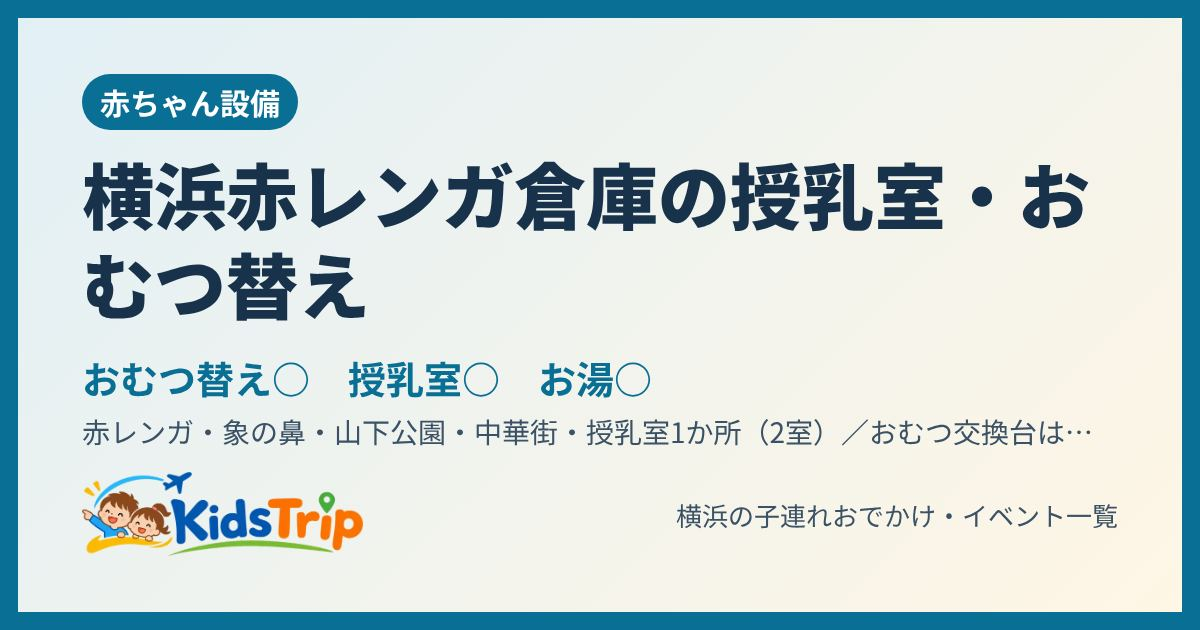
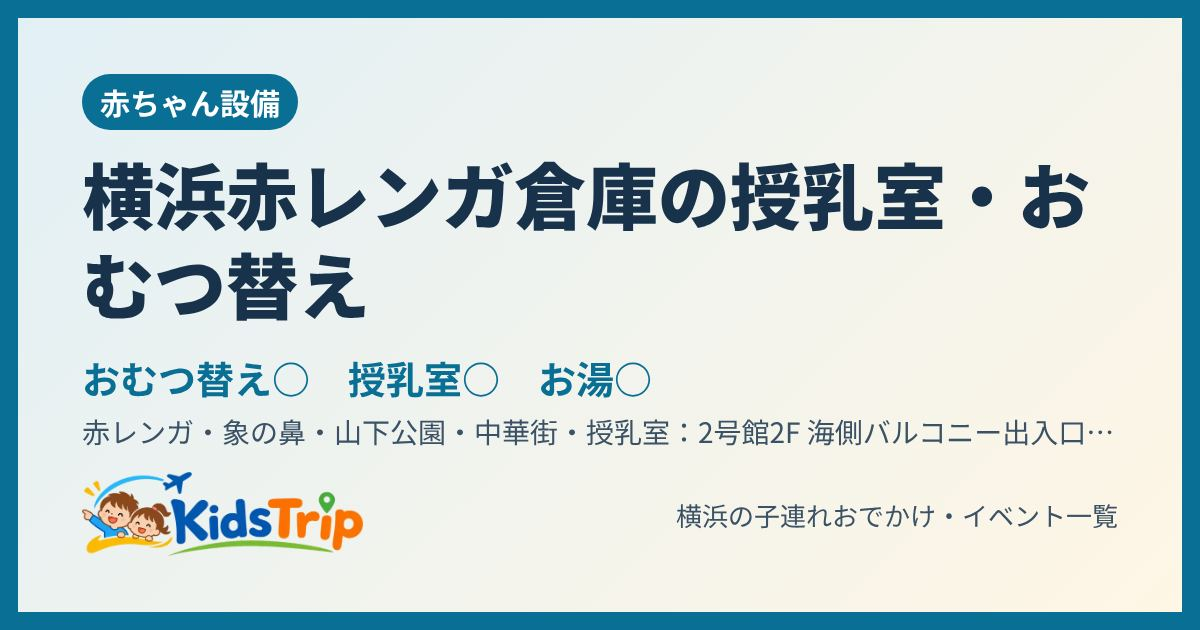
横浜赤レンガ倉庫：授乳室の場所・ベビーシート・ベビーカー貸出を公式フロアガイドで確認
Claude-Session: https://claude.ai/code/session_014AtJ2g3ghW1boxsW7syVwL

Changed region(s): [[0.555, 0.6635, 0.925, 0.7238]]

diff --git a/spot/eizyq4/index.html b/spot/eizyq4/index.html
@@ -3,13 +3,13 @@
 <head>
 <meta charset="utf-8">
 <meta name="viewport" content="width=device-width, initial-scale=1">
-<title>横浜赤レンガ倉庫の授乳室・おむつ替え・お湯｜KidsTrip</title>
-<meta name="description" content="横浜赤レンガ倉庫（赤レンガ・象の鼻・山下公園・中華街）の授乳室・おむつ替えの場所：授乳室1か所（2室）／おむつ交換台は女性トイレと2号館バリアフリートイレ前。おむつ替え・授乳室・調乳のお湯あり。">
+<title>横浜赤レンガ倉庫の授乳室は何階？おむつ替え・お湯｜KidsTrip</title>
+<meta name="description" content="横浜赤レンガ倉庫（赤レンガ・象の鼻・山下公園・中華街）の授乳室・おむつ替えの場所：授乳室：2号館2F 海側バルコニー出入口前（個室・おむつ交換台・給湯設備）／おむつ替えのベビーシート：女性トイレ内（2号館2F 海側階段前の女性トイレを除く）と2号館バリアフリートイレ前。おむつ替え・授乳室・調乳のお湯">
 <link rel="canonical" href="https://kidstrip.jp/spot/eizyq4/">
 <meta property="og:type" content="article">
 <meta property="og:site_name" content="KidsTrip">
-<meta property="og:title" content="横浜赤レンガ倉庫の授乳室・おむつ替え・お湯｜KidsTrip">
-<meta property="og:description" content="横浜赤レンガ倉庫（赤レンガ・象の鼻・山下公園・中華街）の授乳室・おむつ替えの場所：授乳室1か所（2室）／おむつ交換台は女性トイレと2号館バリアフリートイレ前。おむつ替え・授乳室・調乳のお湯あり。">
+<meta property="og:title" content="横浜赤レンガ倉庫の授乳室は何階？おむつ替え・お湯｜KidsTrip">
+<meta property="og:description" content="横浜赤レンガ倉庫（赤レンガ・象の鼻・山下公園・中華街）の授乳室・おむつ替えの場所：授乳室：2号館2F 海側バルコニー出入口前（個室・おむつ交換台・給湯設備）／おむつ替えのベビーシート：女性トイレ内（2号館2F 海側階段前の女性トイレを除く）と2号館バリアフリートイレ前。おむつ替え・授乳室・調乳のお湯">
 <meta property="og:url" content="https://kidstrip.jp/spot/eizyq4/">
 <meta property="og:image" content="https://kidstrip.jp/og/spot-eizyq4.jpg">
 <meta property="og:image:width" content="1200">
@@ -21,7 +21,7 @@
 <link rel="icon" href="../../img/favicon.png">
 <link rel="apple-touch-icon" href="../../img/apple-touch-icon.png">
 <script type="application/ld+json">{"@context": "https://schema.org", "@type": "BreadcrumbList", "itemListElement": [{"@type": "ListItem", "position": 1, "name": "トップ", "item": "https://kidstrip.jp/"}, {"@type": "ListItem", "position": 2, "name": "ごはん・おむつ", "item": "https://kidstrip.jp/#foodall"}, {"@type": "ListItem", "position": 3, "name": "横浜赤レンガ倉庫"}]}</script>
-<script type="application/ld+json">{"@context": "https://schema.org", "@type": "Place", "name": "横浜赤レンガ倉庫", "description": "横浜赤レンガ倉庫（赤レンガ・象の鼻・山下公園・中華街）の授乳室・おむつ替えの場所：授乳室1か所（2室）／おむつ交換台は女性トイレと2号館バリアフリートイレ前。おむつ替え・授乳室・調乳のお湯あり。", "url": "https://kidstrip.jp/spot/eizyq4/", "image": ["https://kidstrip.jp/og/spot-eizyq4.jpg"], "address": {"@type": "PostalAddress", "addressLocality": "横浜市", "addressRegion": "神奈川県", "addressCountry": "JP"}, "amenityFeature": [{"@type": "LocationFeatureSpecification", "name": "おむつ替え", "value": true}, {"@type": "LocationFeatureSpecification", "name": "授乳室", "value": true}, {"@type": "LocationFeatureSpecification", "name": "調乳のお湯", "value": true}], "publicAccess": true, "sameAs": "https://www.welcome.city.yokohama.jp/accessibility/spot/details.php?sid=184", "hasMap": "https://www.google.com/maps/search/?api=1&query=横浜赤レンガ倉庫"}</script>
+<script type="application/ld+json">{"@context": "https://schema.org", "@type": "Place", "name": "横浜赤レンガ倉庫", "description": "横浜赤レンガ倉庫（赤レンガ・象の鼻・山下公園・中華街）の授乳室・おむつ替えの場所：授乳室：2号館2F 海側バルコニー出入口前（個室・おむつ交換台・給湯設備）／おむつ替えのベビーシート：女性トイレ内（2号館2F 海側階段前の女性トイレを除く）と2号館バリアフリートイレ前。おむつ替え・授乳室・調乳のお湯", "url": "https://kidstrip.jp/spot/eizyq4/", "image": ["https://kidstrip.jp/og/spot-eizyq4.jpg"], "address": {"@type": "PostalAddress", "addressLocality": "横浜市", "addressRegion": "神奈川県", "addressCountry": "JP"}, "amenityFeature": [{"@type": "LocationFeatureSpecification", "name": "おむつ替え", "value": true}, {"@type": "LocationFeatureSpecification", "name": "授乳室", "value": true}, {"@type": "LocationFeatureSpecification", "name": "調乳のお湯", "value": true}], "publicAccess": true, "sameAs": "https://www.yokohama-akarenga.jp/floorguide/", "hasMap": "https://www.google.com/maps/search/?api=1&query=横浜赤レンガ倉庫"}</script>
 <style>
 .gkcmp th[scope=row]{white-space:nowrap}.gkcmp td{font-size:.92em}
 .gk{list-style:none;padding:0}.gk li{border:1px solid #e5e5e5;border-radius:10px;padding:10px 12px;margin:8px 0;line-height:1.7}.gk h3{margin:0 0 2px;font-size:1.02em}
@@ -52,11 +52,11 @@ footer{margin:28px 0 8px;font-size:12px;color:var(--muted)}
 <h1>横浜赤レンガ倉庫の授乳室・おむつ替え・お湯</h1>
 <table class="bm"><thead><tr><th>場所</th><th>おむつ替え</th><th>授乳室</th><th>お湯</th><th>レンジ</th></tr></thead><tbody><tr><th>横浜赤レンガ倉庫</th><td class="y">○</td><td class="y">○</td><td class="y">○</td><td class="u">？</td></tr></tbody></table>
 <p class="legend">○ あり　× なし　？ 調べた範囲で確認できず</p>
-<table class="info"><tr><th>場所</th><td>授乳室1か所（2室）／おむつ交換台は女性トイレと2号館バリアフリートイレ前</td></tr><tr><th>エリア</th><td>赤レンガ・象の鼻・山下公園・中華街</td></tr></table>
-<ul class="chips"><li>ベビーカー貸出</li><li>トイレの個室にベビーキープ（男女とも）</li></ul>
-<p class="sum">調乳用のお湯（温水器またはポット）あり。</p>
-<p class="small">出典：横浜市観光情報サイト バリアフリー情報（2024年10月更新）</p>
-<div class="btns"><a class="btn main" data-act="official" href="https://www.welcome.city.yokohama.jp/accessibility/spot/details.php?sid=184" target="_blank" rel="noopener">公式ページで確認</a>
+<table class="info"><tr><th>場所</th><td>授乳室：2号館2F 海側バルコニー出入口前（個室・おむつ交換台・給湯設備）／おむつ替えのベビーシート：女性トイレ内（2号館2F 海側階段前の女性トイレを除く）と2号館バリアフリートイレ前</td></tr><tr><th>エリア</th><td>赤レンガ・象の鼻・山下公園・中華街</td></tr></table>
+<ul class="chips"><li>ベビーカー貸出（2号館1F インフォメーション）</li><li>トイレの個室にベビーキープ（男女とも）</li></ul>
+<p class="sum">授乳室は2号館2Fの海側バルコニー出入口前の1か所で、個室・おむつ交換台・給湯設備がある。1号館には授乳室の記載なし。ベビーカーは2号館1Fのインフォメーションで借りられる（数に限りあり・営業時間内の館内だけ）。電子レンジは公式ページに記載なし。</p>
+<p class="small">出典：横浜赤レンガ倉庫 公式（フロアガイド・2026年11月22日確認）。バリアフリートイレ前の台・ベビーキープは横浜市観光情報サイト バリアフリー情報（2024年10月更新）</p>
+<div class="btns"><a class="btn main" data-act="official" href="https://www.yokohama-akarenga.jp/floorguide/" target="_blank" rel="noopener">公式ページで確認</a>
 <a class="btn" href="https://www.google.com/maps/search/?api=1&amp;query=横浜赤レンガ倉庫" target="_blank" rel="noopener">地図で見る</a>
 <button type="button" class="btn" data-share="1">🔗 リンクを送る・コピー</button></div>
 </article>

diff --git a/js/data.js b/js/data.js
@@ -559,8 +559,8 @@ const BABY = {
       note:"温水湯沸かし器（またはポット）あり。ベビーカーの貸出はない（公式のよくある質問）ので持参で。授乳室の階・電子レンジ・パパが使えるかは公式ページに記載なし（問い合わせ 045-227-5310・10:00〜21:00）。ペット連れでの授乳室への入室はできない。赤レンガ倉庫のとなり。", url:"https://www.welcome.city.yokohama.jp/accessibility/spot/details.php?sid=801", src:"横浜市観光情報サイト バリアフリー情報（2025年1月更新）・MARINE & WALK YOKOHAMA 公式（よくある質問・ペットのルール・2026年11月21日確認）" },
     { n:"横浜ワールドポーターズ", where:"2F観覧車側のミルクルーム／3F・4F観覧車側のおむつルーム／1F駐車場側のキッズトイレ", d:true, f:true, w:true, mw:true, mwText:"電子レンジ（2Fミルクルーム）（横浜ワールドポーターズ 公式（館内設備・2026年11月））", ex:["電子レンジ（2Fミルクルーム）","離乳食・飲料・おむつの自販機（2F）","個室の授乳スペース（2Fに3室・3Fに1室、搾乳も可）","キッズトイレ（1F駐車場側）","ベビーカー貸出"],
       note:"2Fミルクルームに調乳用温水器・電子レンジ・手洗いシンク・ミルクや離乳食を食べられるベンチ・おむつ交換台2台。3F・4Fのおむつルームにも調乳用温水器と、立ったまま替えられるシート。おむつ交換シートは各階の女性トイレ・優先トイレと1F観覧車側の男性トイレにも。1Fのキッズトイレには子ども用便座・ベビーシート。各階の女性トイレに男の子用の小便器、優先トイレに補助便座（シネマ内を除く）。おむつは2Fの自販機・2Fクレモ・1Fファミリーマートで買える。", url:"https://www.yim.co.jp/features/facility", src:"横浜ワールドポーターズ 公式（館内設備・2026年11月）" },
-    { n:"横浜赤レンガ倉庫", where:"授乳室1か所（2室）／おむつ交換台は女性トイレと2号館バリアフリートイレ前", d:true, f:true, w:true, ex:["ベビーカー貸出","トイレの個室にベビーキープ（男女とも）"],
-      note:"調乳用のお湯（温水器またはポット）あり。", url:"https://www.welcome.city.yokohama.jp/accessibility/spot/details.php?sid=184", src:"横浜市観光情報サイト バリアフリー情報（2024年10月更新）" },
+    { n:"横浜赤レンガ倉庫", where:"授乳室：2号館2F 海側バルコニー出入口前（個室・おむつ交換台・給湯設備）／おむつ替えのベビーシート：女性トイレ内（2号館2F 海側階段前の女性トイレを除く）と2号館バリアフリートイレ前", d:true, f:true, w:true, ex:["ベビーカー貸出（2号館1F インフォメーション）","トイレの個室にベビーキープ（男女とも）"],
+      note:"授乳室は2号館2Fの海側バルコニー出入口前の1か所で、個室・おむつ交換台・給湯設備がある。1号館には授乳室の記載なし。ベビーカーは2号館1Fのインフォメーションで借りられる（数に限りあり・営業時間内の館内だけ）。電子レンジは公式ページに記載なし。", url:"https://www.yokohama-akarenga.jp/floorguide/", src:"横浜赤レンガ倉庫 公式（フロアガイド・2026年11月22日確認）。バリアフリートイレ前の台・ベビーキープは横浜市観光情報サイト バリアフリー情報（2024年10月更新）" },
     { n:"横浜ハンマーヘッド", where:"授乳室2室（2階）／おむつ交換台は男性・女性トイレの一部の個室", d:true, f:true, w:true, ex:["ベビーカー貸出（2台）","乳幼児用いす付きの個室"],
       note:"授乳室は男女兼用で、調乳・授乳・おむつ替えができる（中の授乳専用コーナーは女性専用）。調乳用のお湯あり。電子レンジは公式ページに記載なし。新港ふ頭（花火の打ち上げ場所）のすぐそば。分からないことはインフォメーション（045-211-8080）へ。", url:"https://www.hammerhead.co.jp/facility/", src:"横浜ハンマーヘッド 公式（施設ガイド・2026年11月21日確認）・横浜市観光情報サイト バリアフリー情報（2024年9月更新）" },
     { n:"象の鼻テラス", where:"多機能トイレ（男女別に1か所ずつ）のユニバーサルシート", d:true, f:false, w:false, ex:["ベビーキープ","無料休憩所"],

diff --git a/index.html b/index.html
@@ -754,7 +754,7 @@ section[id], div[id="events"] { scroll-margin-top: 56px; }
   </footer>
 </div>
 
-<script src="js/data.js?v=a23f9d06e9" defer></script>
+<script src="js/data.js?v=228d382e4f" defer></script>
 <script src="js/app.js?v=1e28e73a7b" defer></script>
 </body>
 </html>

diff --git a/tools/runs.md b/tools/runs.md
@@ -59,3 +59,4 @@
 | 2026-11-22 | 利用者との作業 | 16:17〜16:17 | 1 | プチール港南台は授乳室がなさそう（利用者の情報）と sources.md に記録。シァルの横浜市内の館はすべて確認済み |
 | 2026-11-22 | 利用者との作業 | 16:30〜16:30 | 3 | ららぽーと横浜：男性トイレのおむつ交換台（利用者の情報）・2F託児所・個室のある授乳室2か所を追加、パパの欄を「男性トイレOK」に |
 | 2026-11-22 | 夕方の確認 | 16:41〜16:42 | 1 | 未発表・見込みのイベントは今日〜来週末になし。ららぽーと・トレッサ・ノースポート・ランドマーク・クイーンズ・コレットマーレ・八景島を見たが、新しい親子向けイベントは見つからず（すでに掲載済み）。変更なし |
+| 2026-11-22 | 利用者との作業 | 17:02〜17:02 | 3 | 横浜赤レンガ倉庫：授乳室（2号館2F 海側バルコニー出入口前）・ベビーシート・ベビーカー貸出を公式フロアガイドで確認して差しかえ（利用者が送ったURL） |
